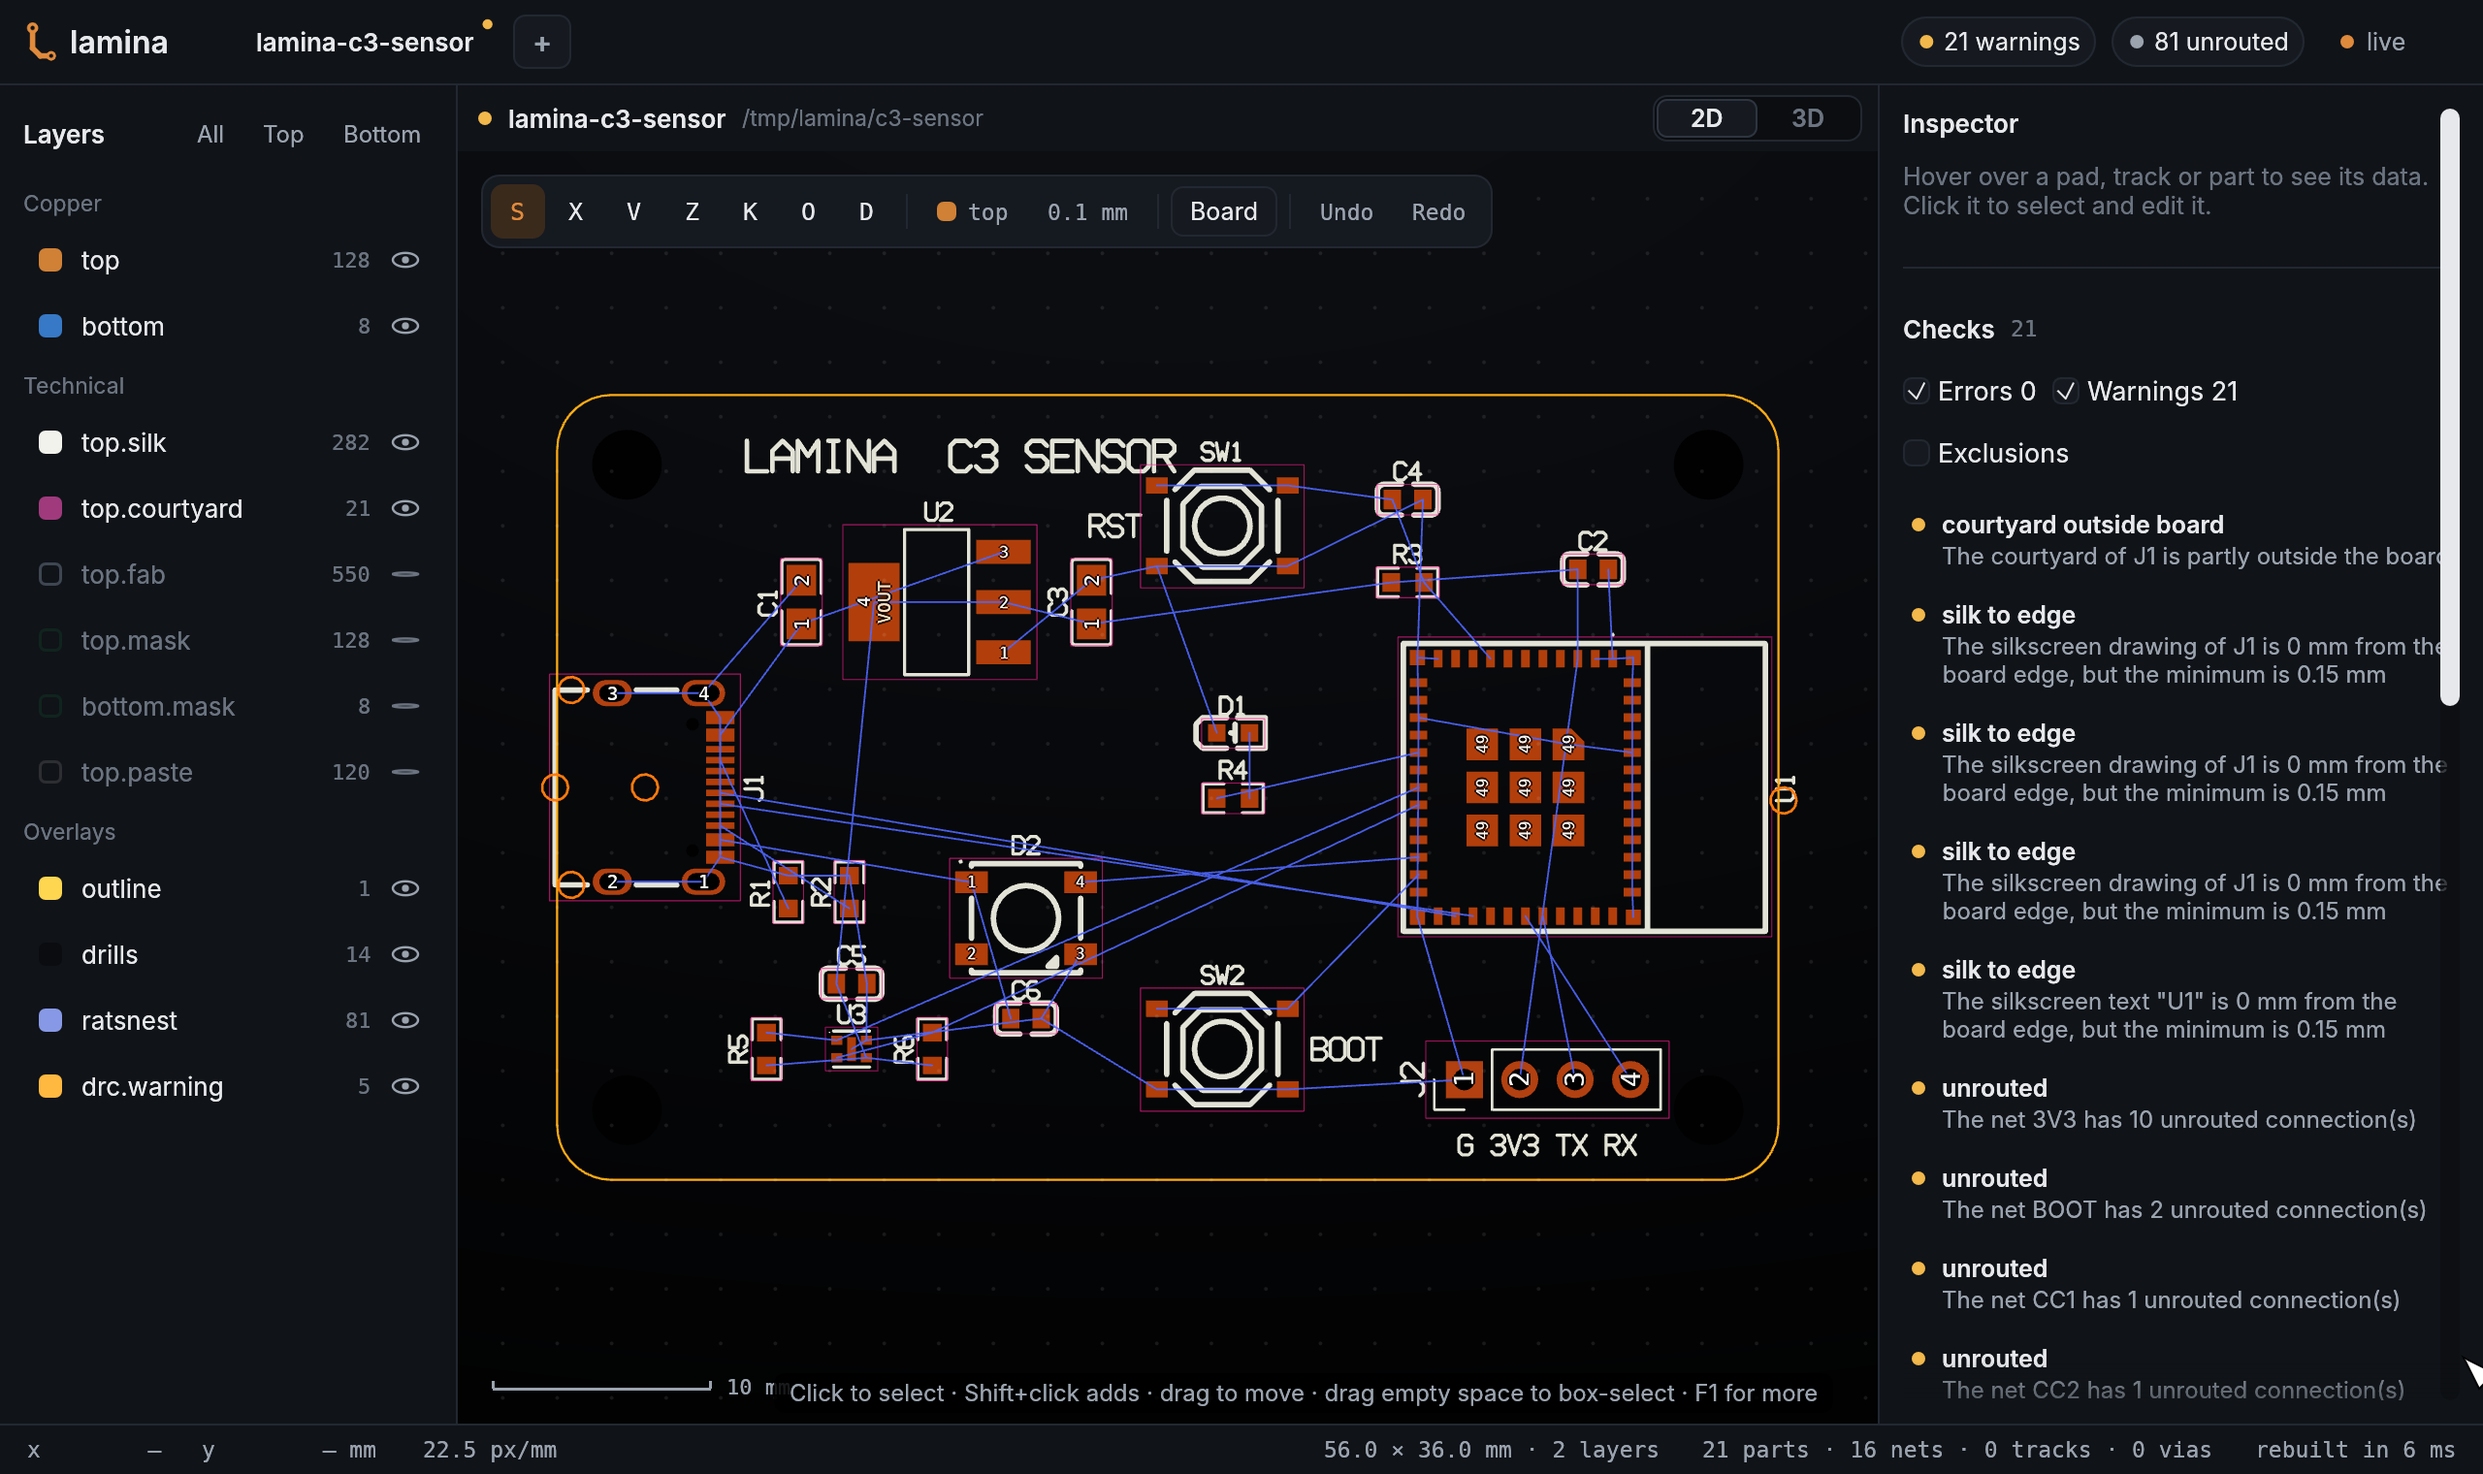
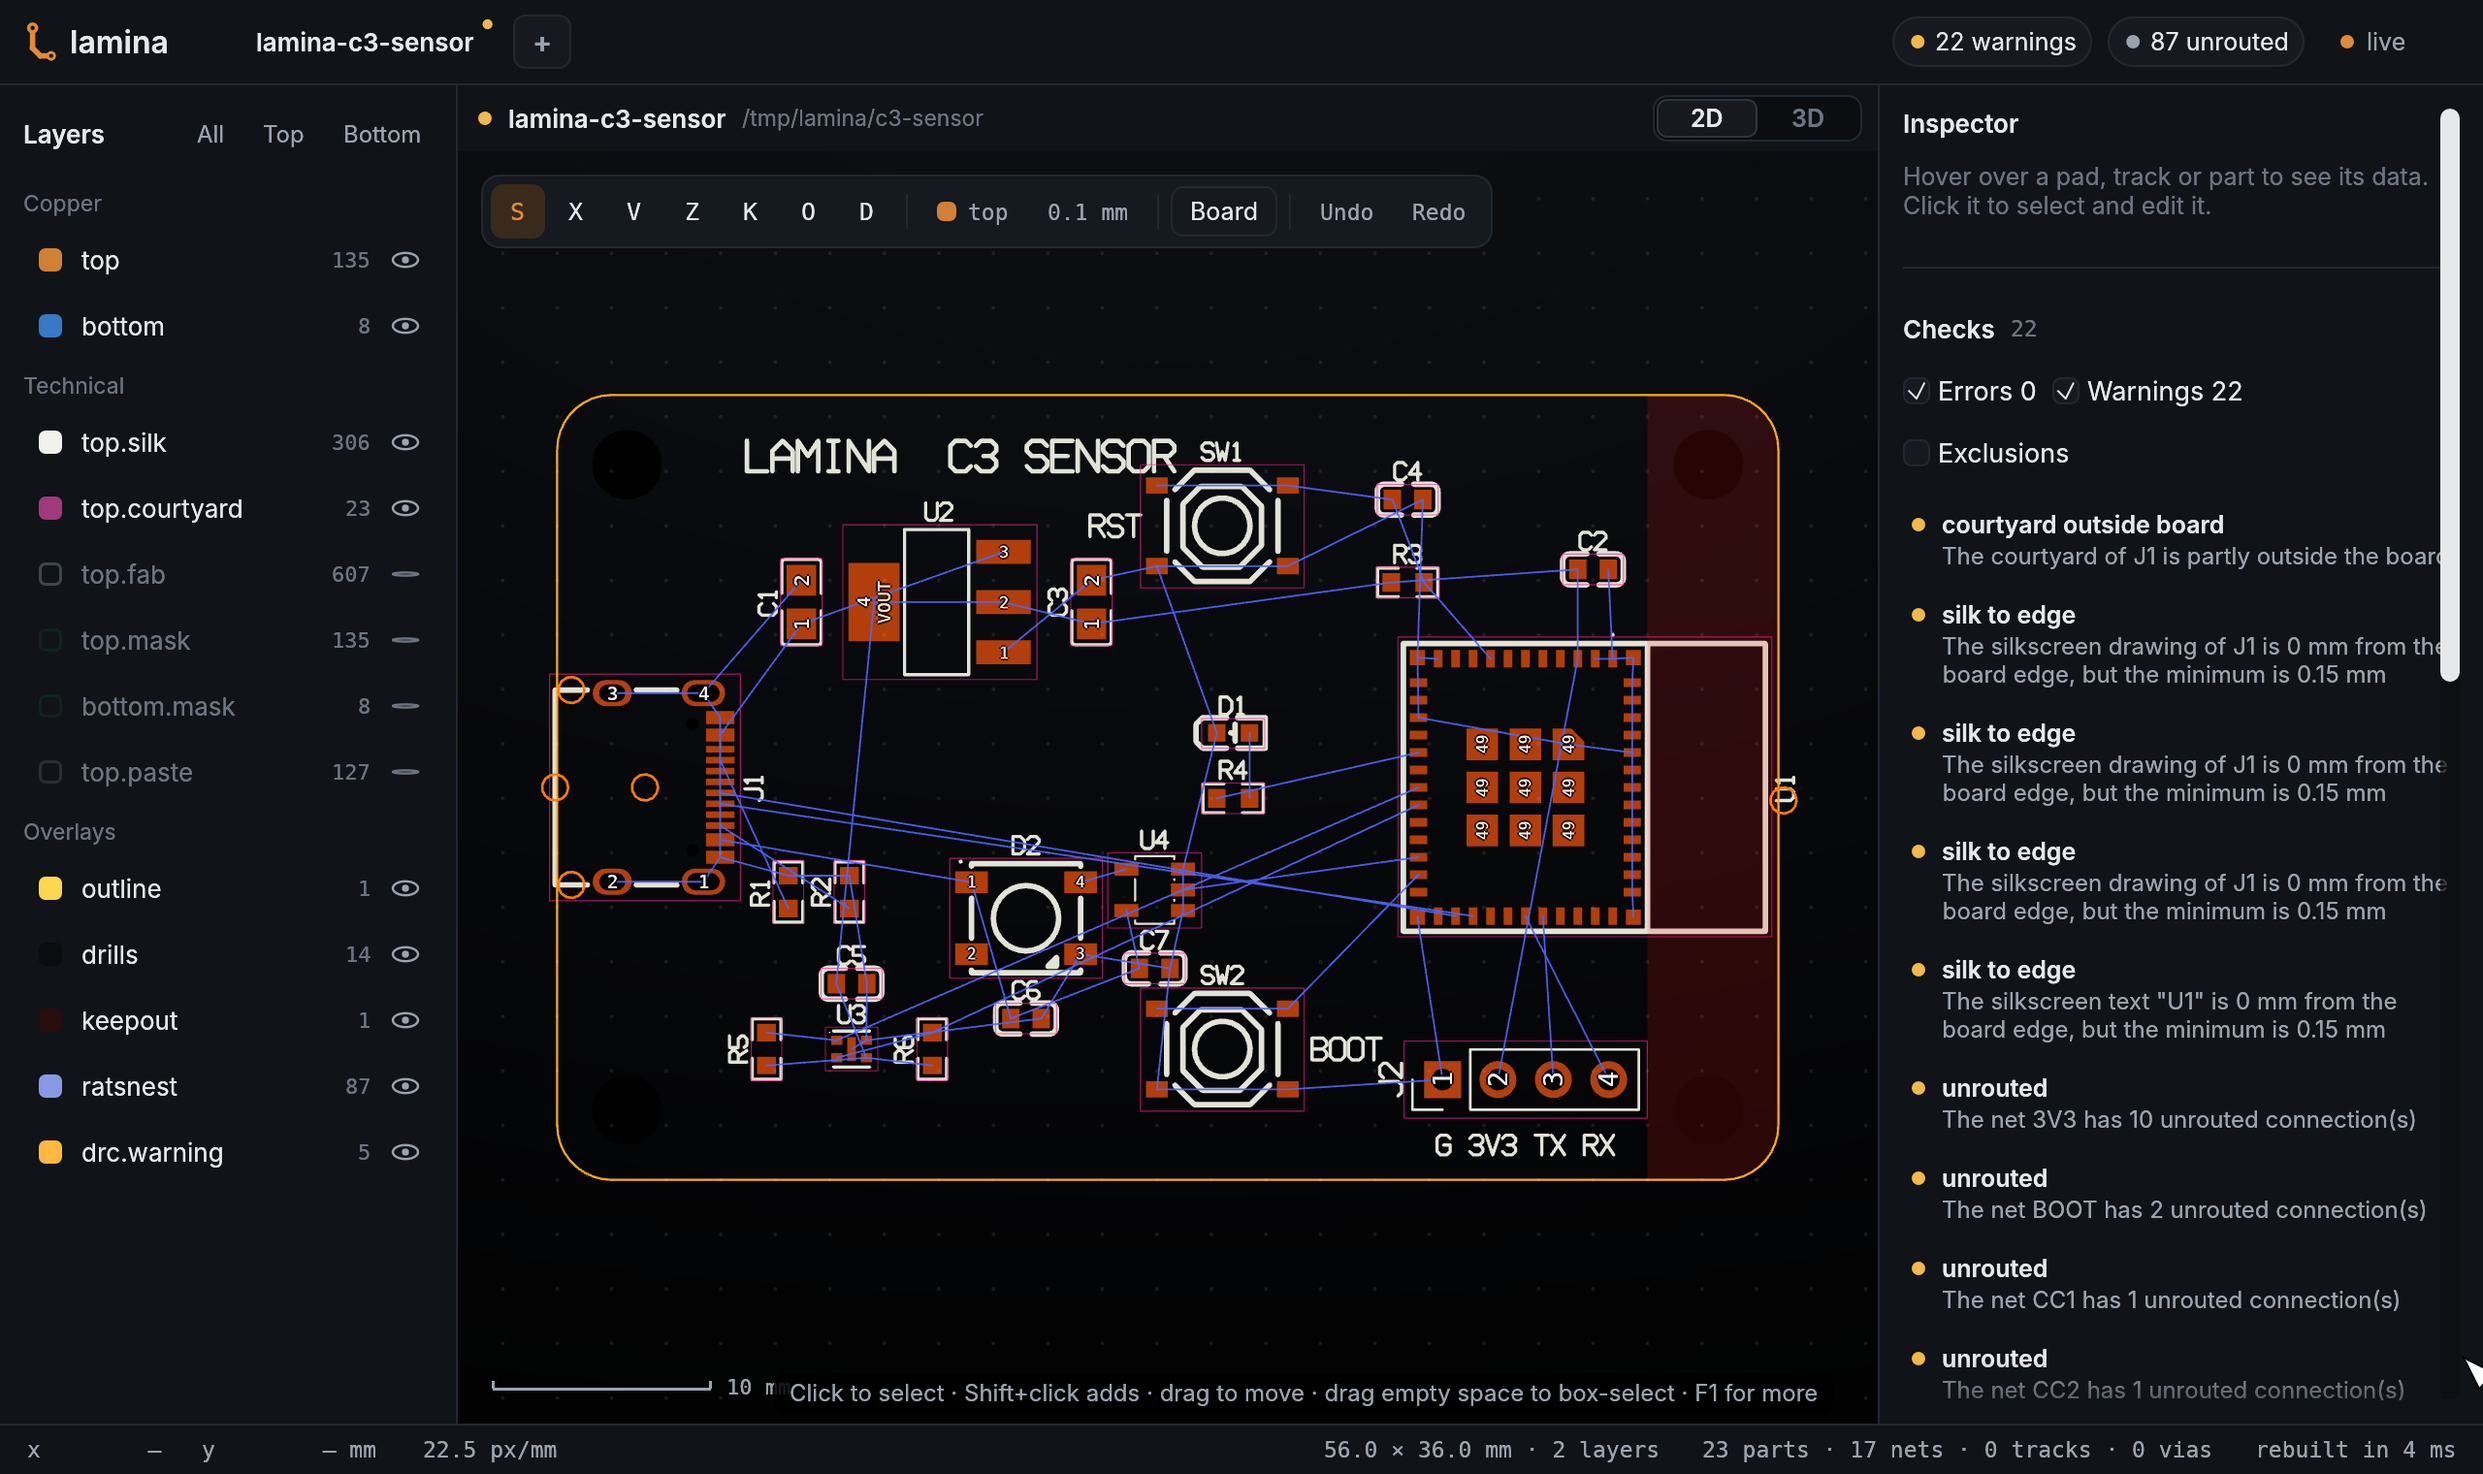
Fix the RGB LED data level and keep copper off the antenna in the example
Issue #6 found three design points of examples/c3-sensor that nobody had
checked against the datasheets.

- Buttons: the C318884 (XKB TS-1187A) datasheet joins terminals A-B and
  C-D, and the switch connects AB to CD. The footprint names pads 1-4
  A, B, C, D, so the netlist was right. It now says why.
- RGB LED: the WS2812B runs from VBUS and the ESP32-C3 drives its data
  at 3.3 V. The C114586 datasheet gives V_IH min 2.7 V at 5 V, older
  WS2812B datasheets give 0.7 x VDD (3.5 V). U4, an SN74AHCT1G125
  (C7484) on VBUS with TTL inputs (V_IH 2.0 V), now buffers the data,
  with C7 to decouple it. OE is on ground.
- Antenna: a keep-out on both copper layers covers the strip from the
  antenna area of U1 (x 50.0) to the right edge, the full board height,
  after Espressif's 15 mm clearance on each side of the antenna. J2 and
  its label move 1 mm left to stay out of it.

The board stays DRC clean and fully routed: 23 parts, 43 connections.
The README images are made again with scripts/readme-media.py.

Claude-Session: https://claude.ai/code/session_016Pc1iRSXE1MZ4RBhcXuQDb

diff --git a/examples/c3-sensor/build.py b/examples/c3-sensor/build.py
@@ -11,7 +11,7 @@ from LCSC). Nothing else.
 
 Open the viewer before you run the script to watch the board grow.
 `--stages DIR` also keeps a copy of the board after each step (for the
-README images, see `scripts/readme-media.sh`).
+README images, see `scripts/readme-media.py`).
 """
 import argparse
 import json
@@ -63,6 +63,12 @@ class Lamina:
         except ValueError:
             return text
 
+    def close(self):
+        """Stop `lamina mcp`."""
+        self.p.stdin.close()
+        self.p.wait()
+        self.p.stdout.close()
+
 
 # The parts. `provider:id` names a real part: footprint, 3D model, pin names.
 PARTS = {
@@ -73,6 +79,7 @@ PARTS = {
     "J2": "kicad:Connector_PinHeader_2.54mm:PinHeader_1x04_P2.54mm_Vertical",
     "D1": "lcsc:C2286",      # red LED 0603
     "D2": "lcsc:C114586",    # WS2812B RGB LED
+    "U4": "lcsc:C7484",      # SN74AHCT1G125 buffer: 3.3 V data in, 5 V data out
     "SW1": "lcsc:C318884", "SW2": "lcsc:C318884",                 # reset, boot
     "R1": "lcsc:C23186", "R2": "lcsc:C23186",                     # 5.1k USB-C CC
     "R3": "lcsc:C25804",                                          # 10k EN pull-up
@@ -80,17 +87,20 @@ PARTS = {
     "R5": "lcsc:C23162", "R6": "lcsc:C23162",                     # 4.7k I2C
     "C1": "lcsc:C15850", "C3": "lcsc:C15850",                     # 10uF
     "C2": "lcsc:C14663", "C4": "lcsc:C14663", "C5": "lcsc:C14663", "C6": "lcsc:C14663",
+    "C7": "lcsc:C14663",                                          # 100nF
 }
 
 U1_GND = ["1", "2", "11", "14"] + [str(p) for p in range(36, 54)]
 NETS = {
-    "VBUS": ["J1.A4B9", "J1.B4A9", "U2.3", "C1.1", "D2.1", "C6.1"],
+    "VBUS": ["J1.A4B9", "J1.B4A9", "U2.3", "C1.1", "D2.1", "C6.1", "U4.5", "C7.1"],
     "GND": ["J1.A1B12", "J1.B1A12", "J1.1", "J1.2", "J1.3", "J1.4", "U2.1", "C1.2",
             "C2.2", "C3.2", "C4.2", "C5.2", "C6.2", "R1.2", "R2.2", "SW1.3", "SW1.4",
-            "SW2.3", "SW2.4", "D1.2", "U3.4", "U3.5", "D2.3", "J2.1"]
+            "SW2.3", "SW2.4", "D1.2", "U3.4", "U3.5", "D2.3", "J2.1",
+            "U4.1", "U4.3", "C7.2"]
            + [f"U1.{p}" for p in U1_GND],
     "3V3": ["U2.2", "U2.4", "U1.3", "C2.1", "C3.1", "R3.1", "U3.3", "R5.1", "R6.1",
             "C5.1", "J2.2"],
+    # Pads 1 and 2 (A, B) of a button are one contact, 3 and 4 (C, D) the other.
     "EN": ["U1.8", "R3.2", "C4.1", "SW1.1", "SW1.2"],
     "BOOT": ["U1.23", "SW2.1", "SW2.2"],
     "CC1": ["J1.A5", "R1.1"],
@@ -99,12 +109,18 @@ NETS = {
     "USB_DN": ["J1.A7", "J1.B7", "U1.26"],
     "SDA": ["U1.18", "U3.1", "R5.2"],
     "SCL": ["U1.19", "U3.2", "R6.2"],
-    "LED_DIN": ["U1.22", "D2.4"],
+    # The WS2812B runs from 5 V, so U4 (VCC 5 V, TTL input) lifts the 3.3 V data.
+    # U4.1 is OE, active low: it is on GND above.
+    "LED_DATA": ["U1.22", "U4.2"],
+    "LED_DIN": ["U4.4", "D2.4"],
     "LED_STAT": ["U1.16", "R4.1"],
     "LED_A": ["R4.2", "D1.1"],
     "TXD": ["U1.31", "J2.3"],
     "RXD": ["U1.30", "J2.4"],
 }
+
+# The board in mm: width, height, corner radius.
+WIDTH, HEIGHT, CORNER = 56, 36, 2.5
 
 # Placement in mm, origin at the lower-left corner, rotation in degrees.
 # Rotation 270 turns the USB-C mouth to the left edge and the antenna to the right.
@@ -118,17 +134,33 @@ PLACE = [
     ("sensor, RGB LED and header", {"D2": (21.5, 12.0, 0), "C6": (21.5, 7.4, 0),
                                     "U3": (13.5, 6.0, 0), "C5": (13.5, 9.0, 0),
                                     "R5": (9.6, 6.0, 90), "R6": (17.2, 6.0, 90),
-                                    "J2": (41.6, 4.6, 90)}),
+                                    "U4": (27.4, 13.3, 0), "C7": (27.4, 9.7, 0),
+                                    "J2": (40.6, 4.6, 90)}),
 ]
 
+# No copper on either layer near the module antenna. U1 at rotation 270 puts the
+# antenna area (y 5.6 to 11.0 of the footprint) at x 50.0 to 55.4. Espressif asks for
+# 15 mm of clearance on each side of the antenna: here that is the whole board
+# height. So the keep-out is the strip from x 50.0 to the right edge.
+ANTENNA_KEEPOUT = (50.0, 0.0, WIDTH, HEIGHT)   # min x, min y, max x, max y
 
-def main():
+
+def keepout_outline():
+    """The keep-out strip, with the rounded corners of the board."""
+    x0, y0, x1, y1 = ANTENNA_KEEPOUT
+    r = CORNER
+    return [{"x": x0, "y": y0}, {"x": x1 - r, "y": y0, "arc": {"center": {"x": x1 - r, "y": y0 + r}, "ccw": True}},
+            {"x": x1, "y": y0 + r}, {"x": x1, "y": y1 - r, "arc": {"center": {"x": x1 - r, "y": y1 - r}, "ccw": True}},
+            {"x": x1 - r, "y": y1}, {"x": x0, "y": y1}]
+
+
+def main(argv=None):
     ap = argparse.ArgumentParser(description=__doc__.split("\n\n")[0])
     ap.add_argument("--out", default="c3-sensor", help="the project folder (default ./c3-sensor)")
     ap.add_argument("--lamina", default=shutil.which("lamina") or "lamina",
                     help="the lamina program (default: the one on PATH)")
     ap.add_argument("--stages", help="keep a copy of the board after each step in this folder")
-    a = ap.parse_args()
+    a = ap.parse_args(argv)
 
     if os.path.exists(a.out):
         sys.exit(f"{a.out} exists. Remove it or give --out.")
@@ -154,8 +186,8 @@ def main():
     print(f"  {len(PARTS)} parts")
 
     say("draw a 56 x 36 mm board with four mounting holes")
-    w, h = 56, 36
-    t("set_outline", rect={"width": w, "height": h, "corner_radius": 2.5})
+    w, h = WIDTH, HEIGHT
+    t("set_outline", rect={"width": w, "height": h, "corner_radius": CORNER})
     for x, y in [(3.2, 3.2), (w - 3.2, 3.2), (3.2, h - 3.2), (w - 3.2, h - 3.2)]:
         t("add_hole", at={"x": x, "y": y}, diameter=3.2)
     stage("outline")
@@ -171,9 +203,13 @@ def main():
                                     for ref, (x, y, rot) in group.items()})
         stage("place")
 
+    say("keep copper away from the antenna")
+    t("add_keepout", layers=["top", "bottom"], outline={"vertices": keepout_outline()},
+      forbid={"tracks": True, "vias": True, "pours": True})
+
     say("label the board")
     for text, x, y, size in [("LAMINA  C3 SENSOR", 18.5, 33.2, 1.4), ("RST", 25.6, 30.0, 1.0),
-                             ("BOOT", 36.2, 6.0, 1.0), ("G 3V3 TX RX", 45.4, 1.6, 0.9)]:
+                             ("BOOT", 36.2, 6.0, 1.0), ("G 3V3 TX RX", 44.4, 1.6, 0.9)]:
         t("add_text", layer="top.silk", text=text, at={"x": x, "y": y}, size=size)
     errors = t("check", warnings=False)["total"]
     print(f"  {errors} errors before routing")
@@ -199,6 +235,7 @@ def main():
     print(f"\nDone: {out}\n  {s['width']:g} x {s['height']:g} mm, {s['parts_top']} parts, "
           f"{s['vias']} vias, {s['track_length']:.0f} mm of track")
     print(f"\nLook at it:  lamina-viewer {a.out}")
+    t.close()
 
 
 if __name__ == "__main__":

diff --git a/examples/c3-sensor/README.md b/examples/c3-sensor/README.md
@@ -20,7 +20,7 @@ footprints, 3D models and pin names. If `lamina` is not on your `PATH`, give it 
 
 ## The board
 
-56 × 36 mm, 2 layers, the JLCPCB 2-layer rules, 21 parts:
+56 × 36 mm, 2 layers, the JLCPCB 2-layer rules, 23 parts:
 
 | Ref | Part | LCSC |
 |---|---|---|
@@ -28,24 +28,26 @@ footprints, 3D models and pin names. If `lamina` is not on your `PATH`, give it 
 | U2 | AMS1117-3.3 regulator | C6186 |
 | U3 | SHT40 temperature and humidity sensor (I2C) | C2848306 |
 | D2 | WS2812B RGB LED | C114586 |
+| U4 | SN74AHCT1G125 buffer: 3.3 V data in, 5 V data out | C7484 |
 | D1 | Red LED, 0603 | C2286 |
 | J1 | USB-C receptacle (power and native USB) | C165948 |
 | J2 | 4-pin header: GND, 3V3, TX, RX | KiCad library |
 | SW1, SW2 | Reset and boot buttons | C318884 |
-| R1–R6, C1–C6 | Pull-ups, CC resistors, decoupling | basic parts |
+| R1–R6, C1–C7 | Pull-ups, CC resistors, decoupling | basic parts |
 
 ## The steps
 
 1. `open`, `use_fab_preset`: a new project with the JLCPCB 2-layer rules.
-2. `import_parts`: the 21 parts, with footprints, 3D models and pin names.
+2. `import_parts`: the 23 parts, with footprints, 3D models and pin names.
 3. `set_outline`, `add_hole`: the board and four M3 holes.
 4. `set_nets`, then `check` with the `pin_role` rule: no ground pin is on a power net.
 5. `place_many`, five times: USB-C, regulator, module, buttons, sensor.
-6. `add_text`: the silkscreen labels.
-7. `add_zone` and `autoroute`: ground on both layers, then all 38 connections.
-8. `exclude_violation`: the USB-C connector and the antenna are at the board edge by
+6. `add_keepout`: no tracks, vias or ground pour near the antenna, on both layers.
+7. `add_text`: the silkscreen labels.
+8. `add_zone` and `autoroute`: ground on both layers, then all 43 connections.
+9. `exclude_violation`: the USB-C connector and the antenna are at the board edge by
    design. Each exclusion keeps its reason.
-9. `board_stats`.
+10. `board_stats`.
 
 Then try the viewer: push `2` for 3D, `Ctrl+F` to find a part, `F1` for all the keys.
 Or open the board with your agent and ask it for a change.
@@ -53,6 +55,26 @@ Or open the board with your agent and ask it for a change.
 The script does not call `export`. At the moment, `export` refuses this board: the
 USB-C pad names (for example `A1B12`) do not fit the 4-character pin field of the
 IPC-D-356 netlist. `export_board` with `format: kicad` and `export_step` work.
+
+## Design notes
+
+**Buttons.** The datasheet of C318884 (XKB TS-1187A) shows terminals A and B joined,
+and C and D joined. The button connects AB to CD. The footprint names pads 1 to 4 A, B,
+C and D. So pads 1 and 2 go to the signal (EN or BOOT), pads 3 and 4 go to ground.
+
+**RGB LED.** The WS2812B runs from VBUS, 5 V. The ESP32-C3 drives its data at 3.3 V.
+The datasheet of C114586 gives a minimum high input of 2.7 V at 5 V, but older
+WS2812B datasheets give 0.7 × VDD, 3.5 V. So U4, an SN74AHCT1G125 on VBUS, buffers the
+data. Its inputs are TTL: a high input is 2.0 V or more, and the ESP32-C3 gives at
+least 2.64 V. Its output swings to VBUS. OE is on ground, so the buffer is always on.
+C7 decouples it.
+
+**Antenna.** Espressif asks for no copper near the PCB antenna of the module, and 15 mm
+of clearance on each side of it. The antenna area is the last 5.4 mm of the module.
+Here that is x 50.0 to 55.4, near the right edge. A keep-out on both layers covers the
+strip from x 50.0 to the right edge, over the full board height. Better still is the
+antenna past the board edge, or a cut-out of the board under it. This example keeps the
+board a plain rectangle.
 
 ## The screenshots
 

diff --git a/README.md b/README.md
@@ -30,7 +30,7 @@
 
 <p align="center"><sub>
   A real session: the agent calls the Lamina tools (shown in each caption) and <code>lamina-viewer</code>
-  shows each change. The board is an ESP32-C3 sensor board with USB-C, 21 real LCSC parts and 2 layers.
+  shows each change. The board is an ESP32-C3 sensor board with USB-C, 23 real parts (22 from LCSC) and 2 layers.
   <a href="examples/c3-sensor">Build it yourself</a>.
 </sub></p>
 
